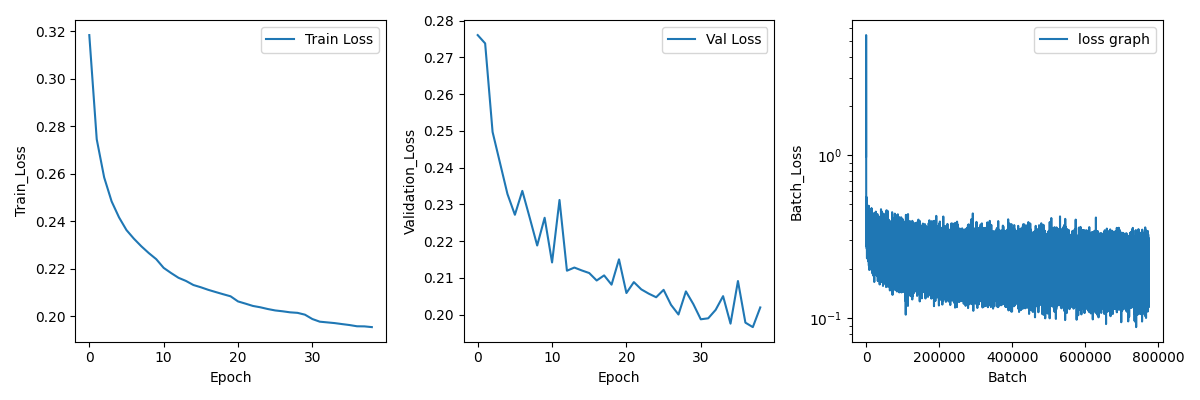
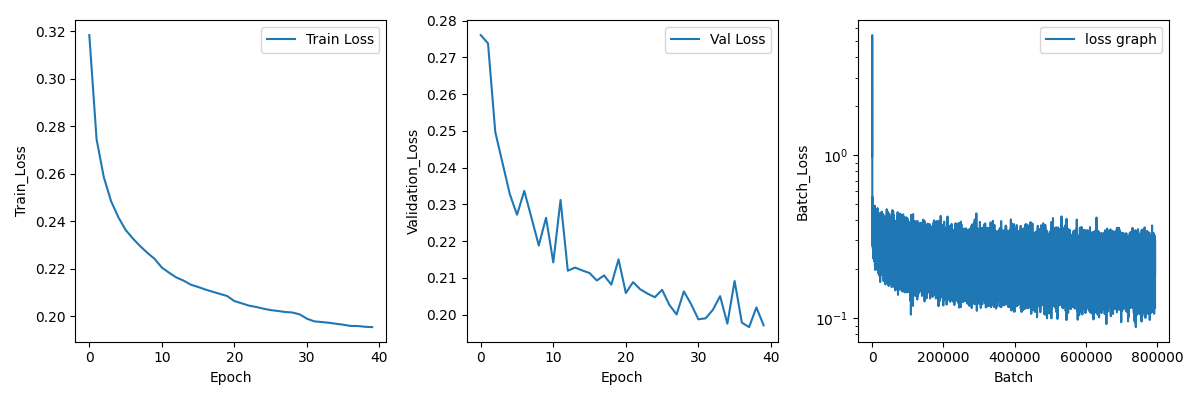
tunning

diff --git a/Minsoo_net/grasp/grasp.py b/Minsoo_net/grasp/grasp.py
@@ -3,8 +3,10 @@ from typing import Optional, Tuple, List, Dict
 from Minsoo_net.grasp.contact import Contact3D
 import yaml
 from copy import deepcopy
+from pathlib import Path
 
-with open('/root/humble/Dexnet_Minsoo/Minsoo_net/config/master_config.yaml') as f:
+_CONFIG_PATH = Path(__file__).resolve().parent.parent / "config" / "master_config.yaml"
+with open(_CONFIG_PATH) as f:
     config=yaml.safe_load(f)
     ao = config['angle_offsets_deg']
     angle_offsets_deg = np.linspace(ao['start'], ao['stop'], ao['num'])

diff --git a/Minsoo_net/model/train.py b/Minsoo_net/model/train.py
@@ -373,7 +373,7 @@ def train(args,cfg):
 
     elif args.init_from:
         log.info(f"[init-from] {args.init_from} 가중치만 초기값으로 로드, 새 학습 시작")
-        ckpt = torch.load(args.init_from, map_location=device)
+        ckpt = torch.load(args.init_from, map_location=device, weights_only= False)
         state = ckpt["state_dict"] if isinstance(ckpt, dict) and "state_dict" in ckpt else ckpt
         missing, unexpected = model.load_state_dict(state, strict=False)
         if missing:

diff --git a/Minsoo_net/test/dataset_test/dataset_check.py b/Minsoo_net/test/dataset_test/dataset_check.py
@@ -8,7 +8,7 @@ import multiprocessing as mp
 from pathlib import Path
 from matplotlib.colors import Normalize
 
-zarr_path = '/home/minsoo/Dexnet_Minsoo/grasp_dataset_NEAREST.zarr'
+zarr_path = '/home/minsoo/Dexnet_Minsoo/grasp_dataset_SELECTED.zarr'
 mesh_root = Path('/home/minsoo/Dexnet_Minsoo/Minsoo_net/data/object/Frankapanda')
 MESH_EXTS = ('.obj', '.stl', '.ply', '.OBJ', '.STL', '.PLY')
 

diff --git a/Minsoo_net/database/generate_tasks.py b/Minsoo_net/database/generate_tasks.py
@@ -45,7 +45,7 @@ def load_config():
 
 
 def list_mesh_files(folder_num: str):
-    mesh_dir = PROJECT_ROOT / "data" / "object" / "Frankapanda" / folder_num
+    mesh_dir = PROJECT_ROOT / "data" / "object" / "selected" / folder_num
     files = list(mesh_dir.rglob("*.obj")) + list(mesh_dir.rglob("*.stl"))
     return mesh_dir, files
 
